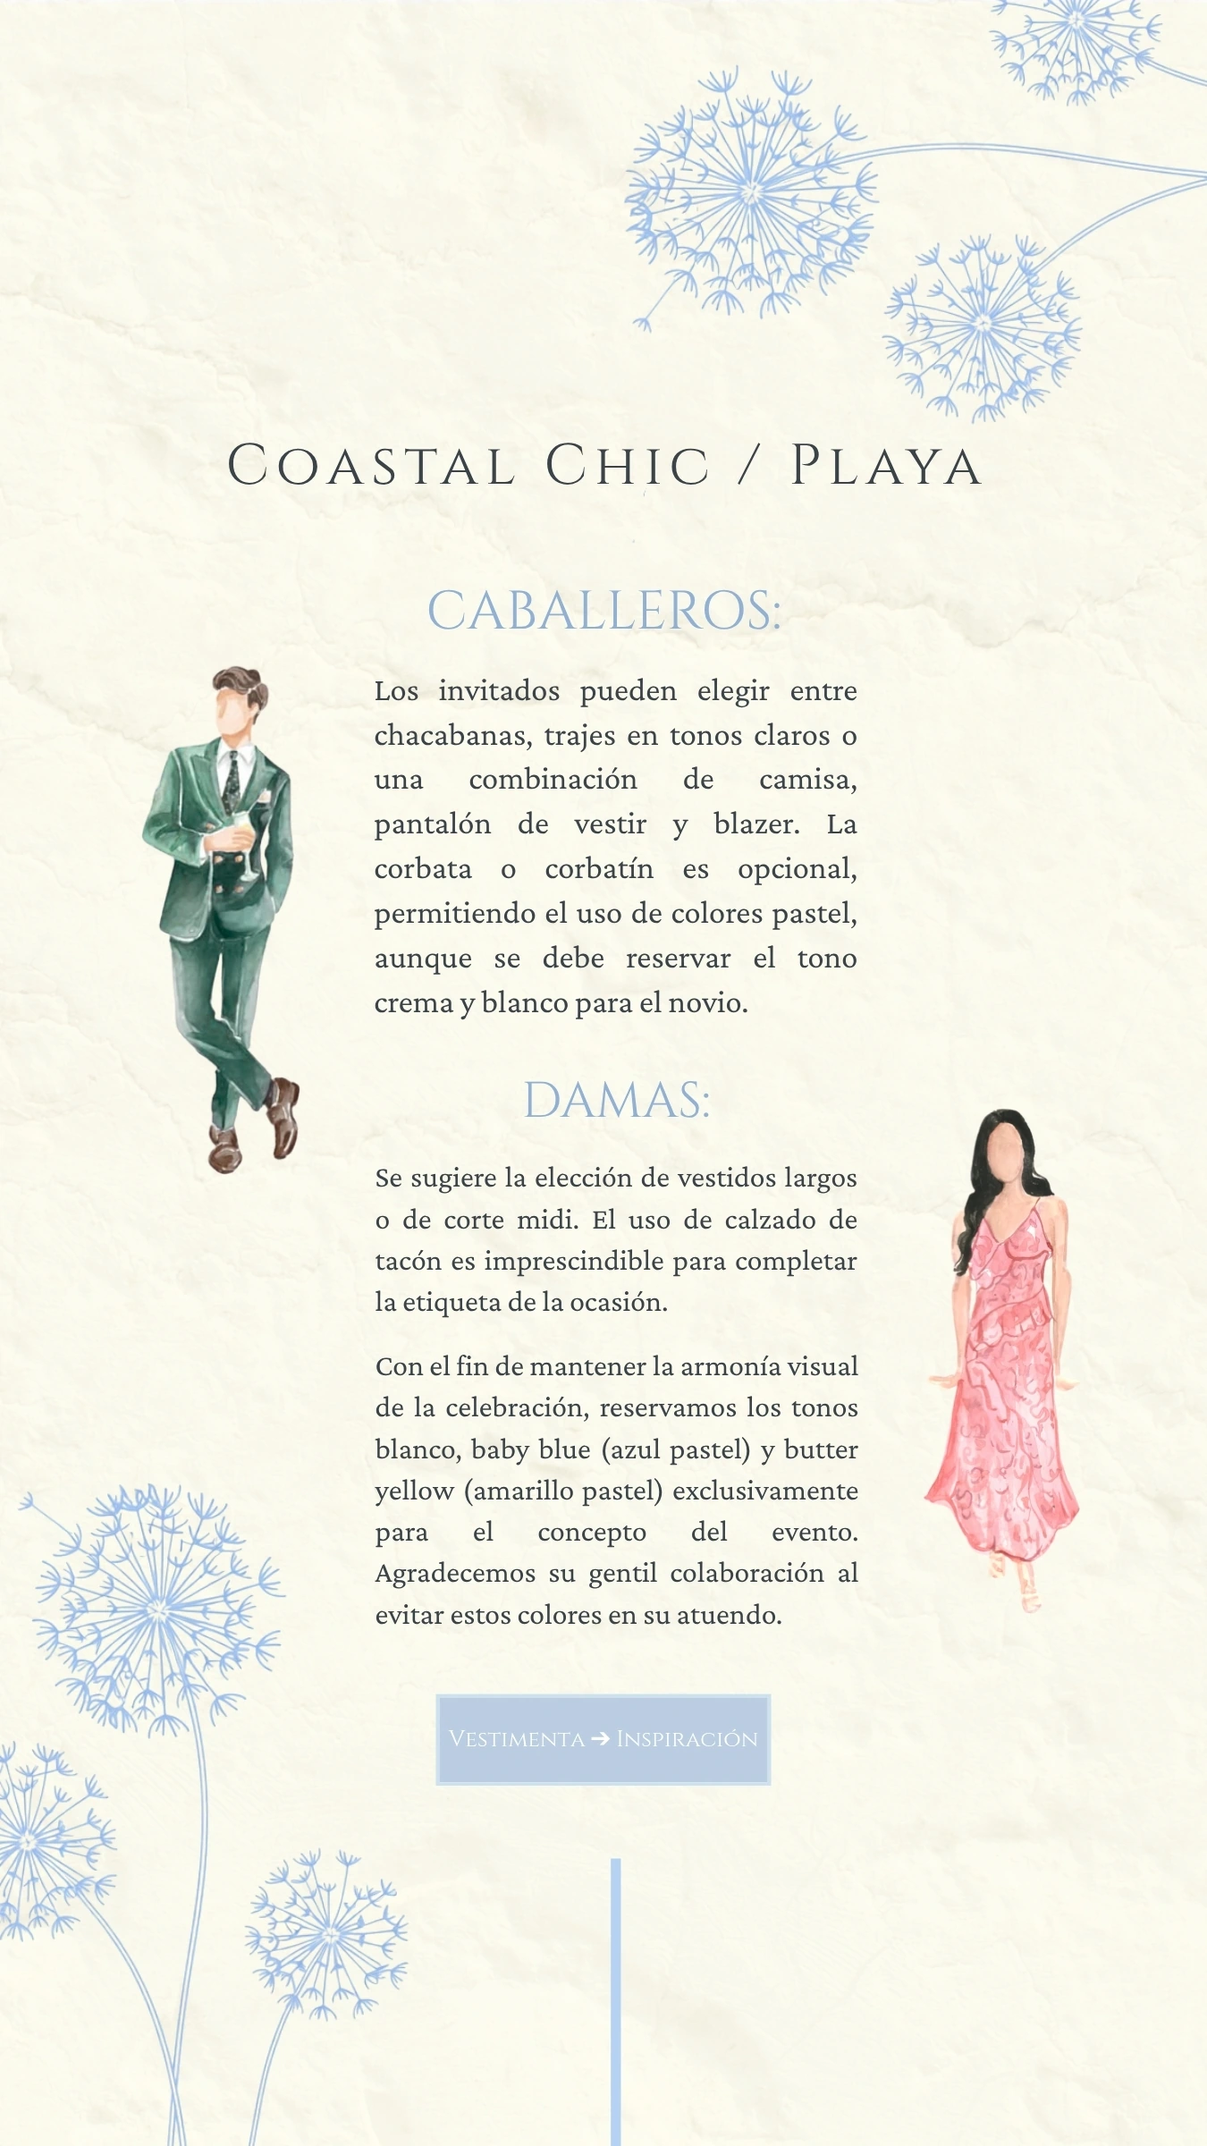
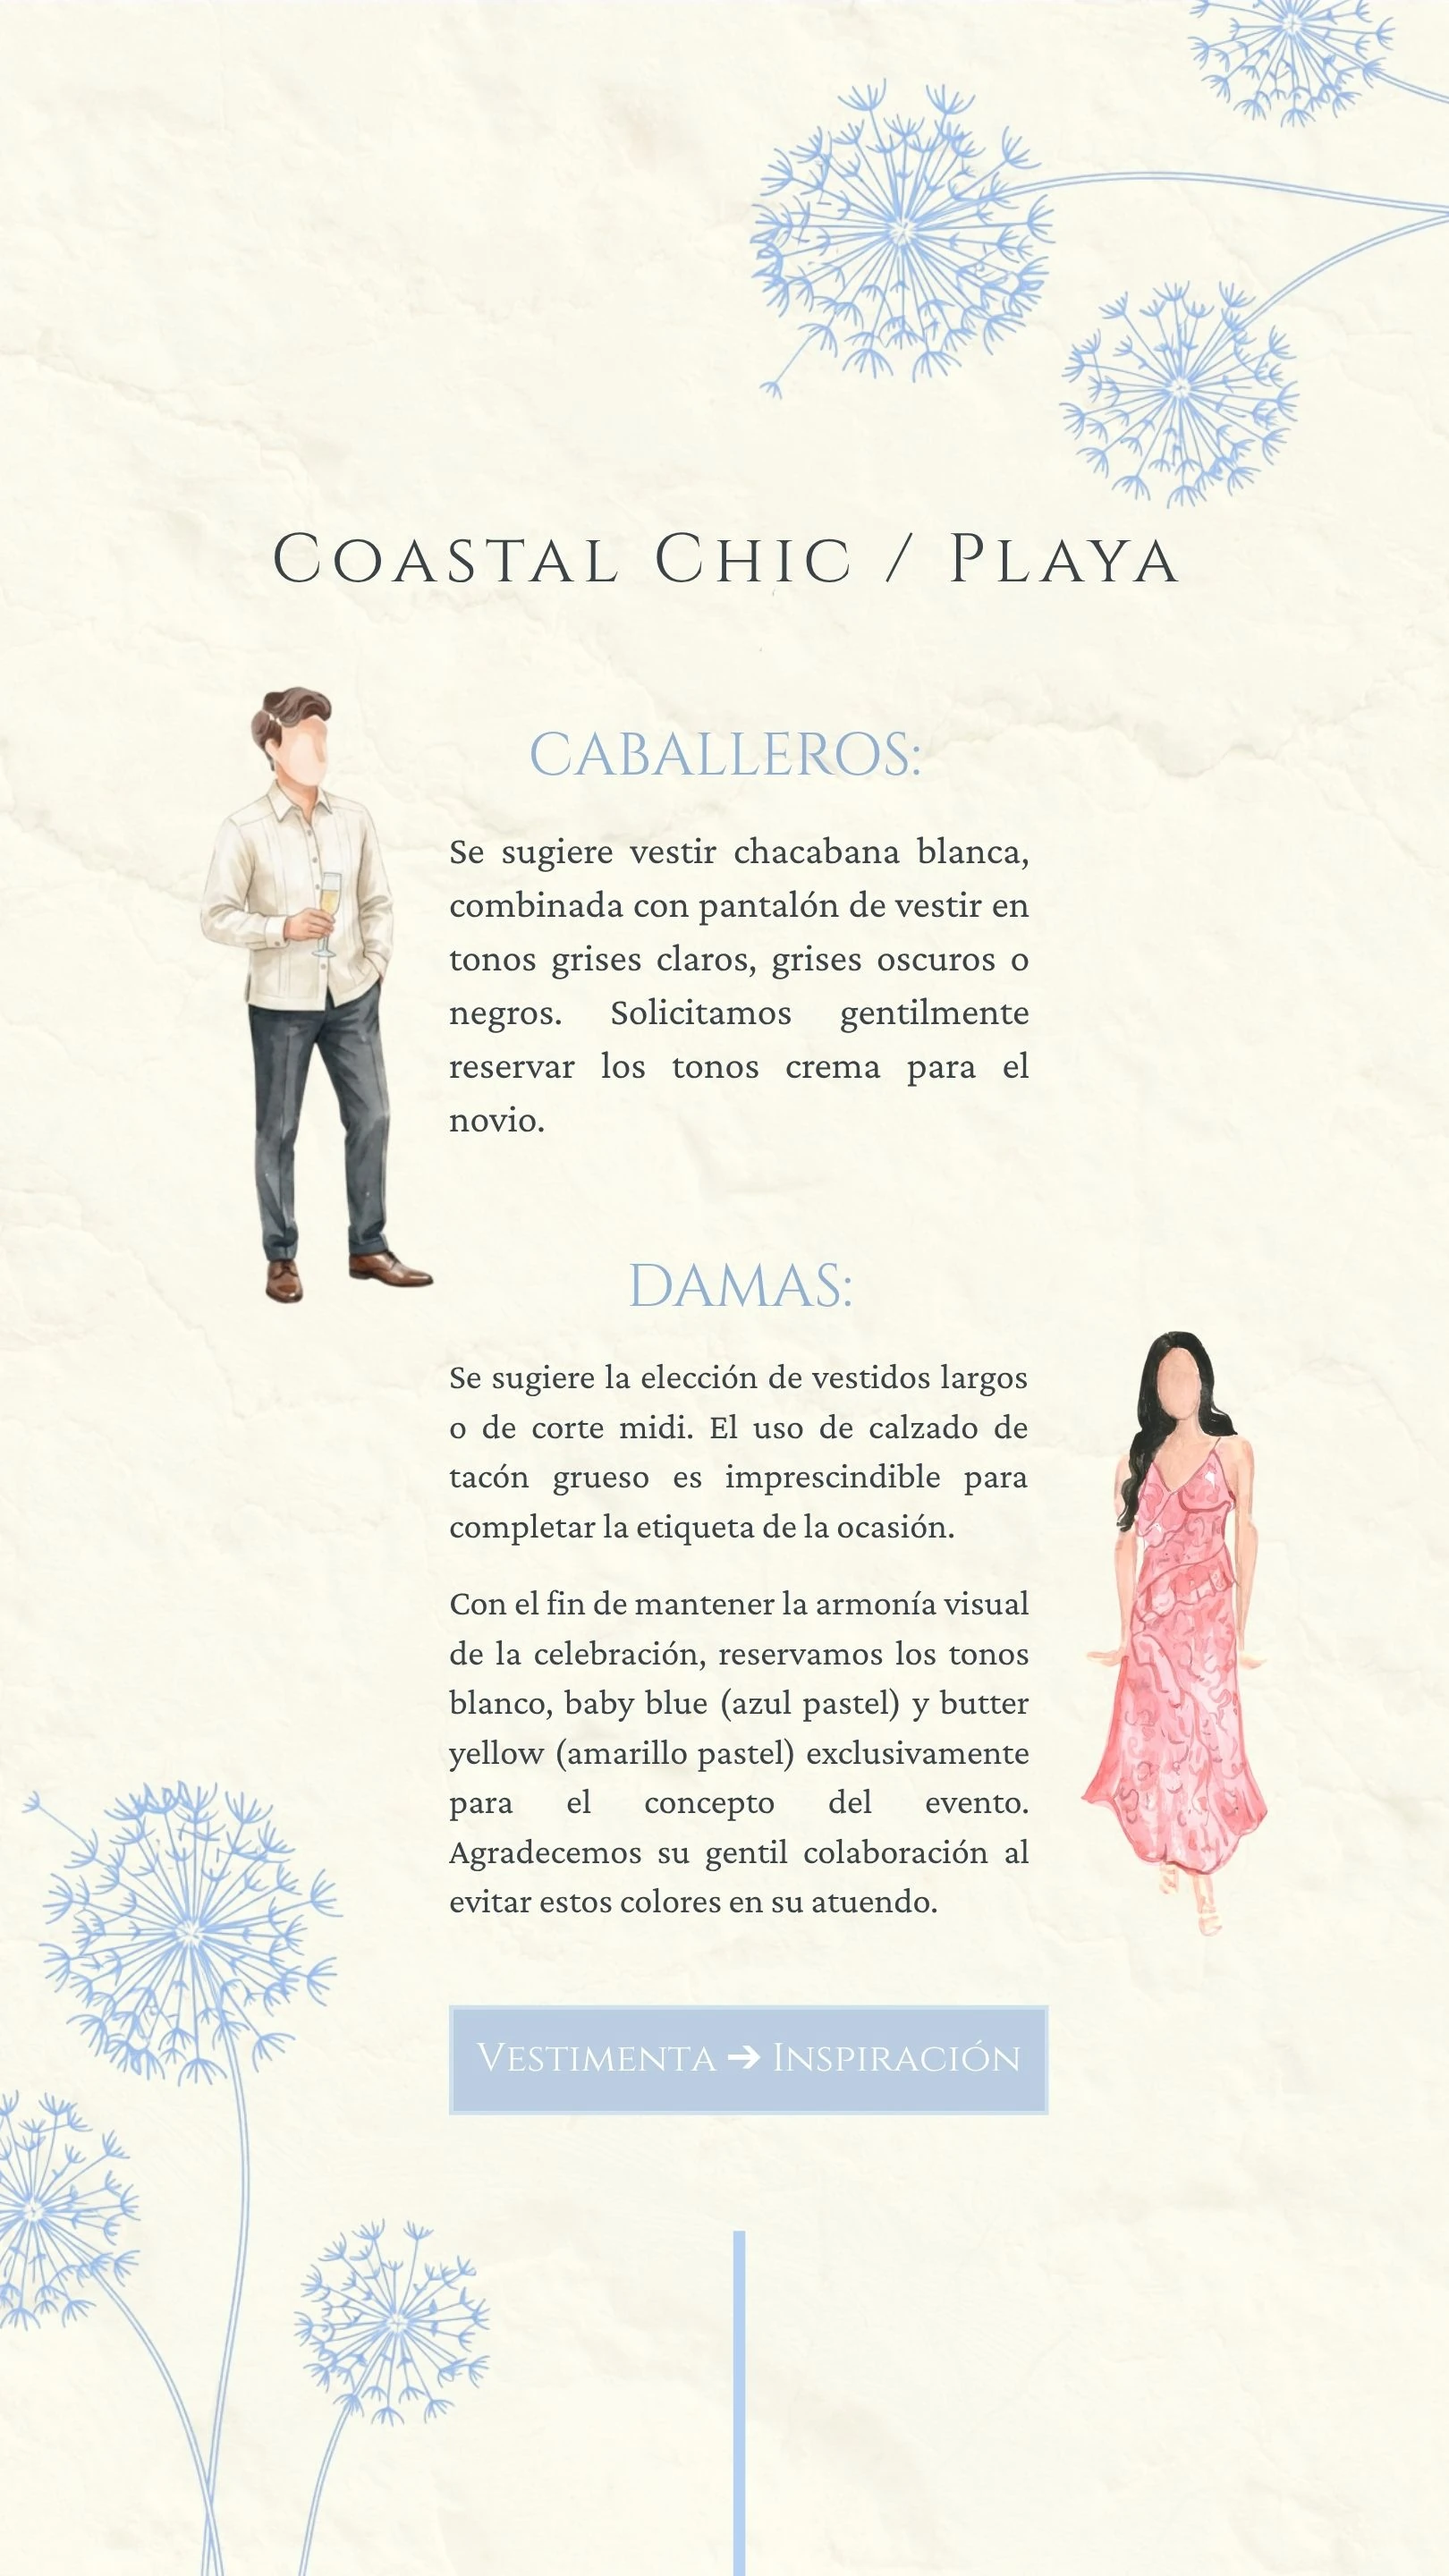
feat(vestimenta): new artwork, reposition link overlay

Changed region(s): [[0.3111, 0.2812, 0.7467, 0.8438], [0.1244, 0.25, 0.3111, 0.5625], [0.7467, 0.5, 0.9022, 0.75]]

diff --git a/inv/nieves-y-jesus/preview.html b/inv/nieves-y-jesus/preview.html
@@ -505,9 +505,9 @@ body{
 .vest-link{
   position:absolute;
   left:12.98%;
-  top:58.07%;
+  top:55.03%;
   width:21.86%;
-  height:10.5%;
+  height:10.59%;
   display:block;
   pointer-events:auto;
   border-radius:2px;
@@ -515,12 +515,12 @@ body{
 .vest-link:hover{filter:brightness(1.06)}
 .vest-link:focus-visible{outline:2px solid #7fa3d4;outline-offset:3px}
 @media(max-width:1023px){
-  .vest-caja{aspect-ratio:1350/2400}
+  .vest-caja{aspect-ratio:1620/2880}
   .vest-link{
-    left:36.15%;
-    top:78.96%;
-    width:27.63%;
-    height:4.21%;
+    left:30.99%;
+    top:77.85%;
+    width:41.3%;
+    height:4.2%;
   }
 }
 /* ── REGALO ── */
@@ -2840,7 +2840,7 @@ document.querySelectorAll('.reveal').forEach(el=>obs.observe(el))
     {xp:5,yp:61,size:16,dur:16,tilt:20},  {xp:80,yp:24,size:23,dur:13,tilt:-20},
     {xp:92,yp:29,size:16,dur:18,tilt:30}, {xp:84,yp:37,size:19,dur:16,tilt:-35},
     {xp:96,yp:44,size:15,dur:20,tilt:25}, {xp:88,yp:50,size:21,dur:14,tilt:-10},
-    {xp:72,yp:80,size:21,dur:14,tilt:15}, {xp:85,yp:83,size:17,dur:17,tilt:-25},
+    {xp:76,yp:80,size:21,dur:14,tilt:15}, {xp:85,yp:83,size:17,dur:17,tilt:-25},
     {xp:95,yp:87,size:24,dur:12,tilt:40}, {xp:75,yp:92,size:18,dur:16,tilt:-15},
     {xp:88,yp:96,size:15,dur:19,tilt:30}, {xp:70,yp:97,size:20,dur:15,tilt:-40},
     {xp:40,yp:90,size:18,dur:16,tilt:-15},{xp:58,yp:92,size:15,dur:19,tilt:25}
